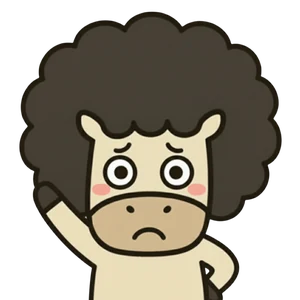
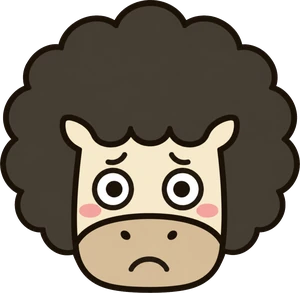
届いた9枚（顔アップ6・ゲート発走3）を反映、記憶の点のはみ出しを修正、難易度を調整
素材
- images/face/ 6枚を仮の切り出しから専用の顔アップに差し替え
  （記憶・たたき・キャッチ・game.html が同じパスを見ているので全部に効く）
- images/gate/ に 構え・飛び出す・フライング の3枚を追加
- gate.html は状態に応じて3枚を入れ替える。先読みしてちらつきを防ぐ
- 背景は自前で除去。白地は thresh=210、黒地は thresh=70。
  クロフワだけ輪郭線がほぼ真っ黒で背景と区別できず、thresh=8（真っ黒のみ）にした

修正
- memory: 段数が増えると点が折り返してキーを押し下げていた。
  1行に収める大きさを総当たりで決め、24段を超えたら「5 / 27」の数字表示に切り替える

難易度
- gate:   称号を 220→250ms 基準にゆるめた（スマホのタップは50〜80ms遅れる）
- whack:  出てる時間 1150→1000ms、間隔 800→720ms から始めて終盤もっと詰める。称号も下げた
- catch:  落下 3.2→2.8秒 始まり、下限 1.0→0.9秒。称号も下げた
- jump:   最高速 520→620、間隔係数 0.75→0.62。
          全速度域で「越えられる > 重なる」「次までの間隔 > 滞空0.85秒」を再検算済み
          （620で間隔0.89秒＝着地即ジャンプでないと落ちる）

diff --git a/game/gate.html b/game/gate.html
@@ -57,14 +57,17 @@
   }
   #stage.is-flying .g-signal { background: var(--gold-d); color: #1a0e16; }
 
-  /* 馬 */
+  /* 馬。構え／飛び出す／フライング の3枚を入れ替える。
+     縦横比が違うので箱を決めて、下端を合わせて収める */
   .g-horse {
-    position: absolute; left: 50%; bottom: 30%; width: 50%; max-width: 186px; z-index: 2;
-    transform: translateX(-50%); transition: transform .26s ease-out;
+    position: absolute; left: 50%; bottom: 30%; z-index: 2;
+    width: 56%; max-width: 200px; height: 30%;
+    object-fit: contain; object-position: bottom center;
+    transform: translateX(-50%); transition: transform .24s ease-out;
     filter: drop-shadow(0 0 14px rgba(0, 0, 0, .8));
   }
-  #stage.is-go .g-horse { transform: translateX(-50%) scale(1.2) translateY(-8px); }
-  #stage.is-flying .g-horse { transform: translateX(-50%) rotate(-16deg) translateY(12px); }
+  #stage.is-go .g-horse { transform: translateX(-50%) scale(1.26); height: 34%; }
+  #stage.is-flying .g-horse { transform: translateX(-50%) translateY(14%); }
 
   /* ゲート */
   .g-frame {
@@ -128,7 +131,7 @@
   <div class="at-eye">REACTION</div>
   <h1 class="at-ttl">ゲート発走</h1>
   <p class="at-sub">開いた瞬間に、タップ</p>
-  <img class="at-hero" src="../images/face/ginma.webp" alt="">
+  <img class="at-hero" src="../images/gate/dash_afuwa.webp" alt="" style="width:170px">
   <div class="at-best">自己ベスト <b id="gBest">—</b></div>
   <button class="abtn" type="button" id="startBtn">スタート</button>
   <ul class="at-how">
@@ -151,7 +154,7 @@
     <div class="astage" id="stage">
       <div class="g-signal" id="signal">タップで構え</div>
       <div class="g-time" id="time">0</div>
-      <img class="g-horse" src="../images/afuwa.png" alt="">
+      <img class="g-horse" id="horse" src="../images/gate/wait_afuwa.webp" alt="">
       <div class="g-frame">
         <div class="g-post l"></div>
         <div class="g-post r"></div>
@@ -180,6 +183,17 @@
   var lastEl = document.getElementById('hLast');
   var bestEl = document.getElementById('hBest');
   var lapsEl = document.getElementById('laps');
+  var horse  = document.getElementById('horse');
+
+  var POSE = {
+    wait:   '../images/gate/wait_afuwa.webp',
+    dash:   '../images/gate/dash_afuwa.webp',
+    flying: '../images/gate/flying_afuwa.webp'
+  };
+  /* 差し替えた瞬間に一拍おかないよう先に読ませておく */
+  (function () {
+    for (var k in POSE) { var i = new Image(); i.src = POSE[k]; }
+  })();
 
   var laps = [], flies = 0, state = 'idle', openAt = 0, timer = null;
 
@@ -195,11 +209,11 @@
     unit: 'ms',
     lower: true,
     grades: [
-      { v: 220, name: 'G1級の出脚' },
-      { v: 260, name: 'オープン級' },
-      { v: 300, name: '3勝クラス' },
-      { v: 350, name: '2勝クラス' },
-      { v: 420, name: '1勝クラス' },
+      { v: 250, name: 'G1級の出脚' },
+      { v: 290, name: 'オープン級' },
+      { v: 330, name: '3勝クラス' },
+      { v: 380, name: '2勝クラス' },
+      { v: 450, name: '1勝クラス' },
       { v: Infinity, name: '新馬' }
     ],
     onRetry: go
@@ -223,9 +237,11 @@
 
   function arm() {
     setState('ready');
+    horse.src = POSE.wait;
     signal.textContent = '構え';
     timer = setTimeout(function () {
       openAt = performance.now();
+      horse.src = POSE.dash;
       setState('go');
       signal.textContent = 'GO！';
       Sfx.start();
@@ -238,6 +254,7 @@
     if (state === 'ready') {                 /* 開く前に押した */
       clearTimeout(timer);
       flies++;
+      horse.src = POSE.flying;
       setState('flying');
       signal.textContent = 'フライング';
       timeEl.textContent = 'フライング ' + flies + '/' + MAX_FLY;
@@ -277,6 +294,7 @@
     laps = []; flies = 0;
     clearTimeout(timer);
     lastEl.textContent = '—';
+    horse.src = POSE.wait;
     setState('idle');
     signal.textContent = 'タップで構え';
     timeEl.textContent = '';

diff --git a/game/memory.html b/game/memory.html
@@ -48,12 +48,24 @@
   .m-state.ok { color: var(--gold); }
   .m-state.ng { color: var(--red); }
 
-  .m-seq { display: flex; gap: 5px; justify-content: center; min-height: 12px; margin: 9px 0 14px; flex-wrap: wrap; }
+  /* 段数が増えても1行に収める。はみ出させない */
+  .m-seq {
+    display: flex; justify-content: center; align-items: center;
+    gap: var(--dg, 5px); min-height: 14px; margin: 9px 0 14px;
+    flex-wrap: nowrap; overflow: hidden;
+  }
   .m-dot {
-    width: 9px; height: 9px; border-radius: 50%; background: var(--grey2);
+    flex: none; width: var(--ds, 9px); height: var(--ds, 9px);
+    border-radius: 50%; background: var(--grey2);
     transition: background .12s, transform .12s, box-shadow .12s;
   }
   .m-dot.on { background: var(--gold); transform: scale(1.3); box-shadow: 0 0 10px var(--gold); }
+  /* 点で表せない段数になったら数字に切り替える */
+  .m-seq.count {
+    font-family: 'Bebas Neue', sans-serif; font-size: 19px; color: var(--gold);
+    text-shadow: 0 0 10px var(--gold); letter-spacing: 1px;
+  }
+  .m-seq.count b { color: var(--white); text-shadow: none; }
 
   .m-pad { display: flex; flex-wrap: wrap; gap: 10px; justify-content: center; }
   .m-key {
@@ -186,12 +198,33 @@
     stateEl.className = 'm-state' + (cls ? ' ' + cls : '');
   }
 
+  var DOT_LIMIT = 24;      /* これを超えたら点をやめて数字にする */
+
   function paintSeq(at) {
-    var h = '';
-    for (var i = 0; i < seq.length; i++) {
-      h += '<span class="m-dot' + (at != null && i <= at ? ' on' : '') + '"></span>';
+    var n = seq.length;
+
+    if (n > DOT_LIMIT) {
+      seqEl.className = 'm-seq count';
+      seqEl.innerHTML = (at == null ? 0 : at + 1) + ' <b>/</b> ' + n;
+      return;
     }
-    seqEl.innerHTML = h;
+
+    /* 入る大きさを大きい方から探す（隙間も含めて必ず収める） */
+    var w = (seqEl.clientWidth || 300) - 6;
+    var size = 4, gap = 2;
+    for (var s = 9; s >= 4; s--) {
+      var g = Math.max(2, s - 4);
+      if (n * s + (n - 1) * g <= w) { size = s; gap = g; break; }
+    }
+    seqEl.className = 'm-seq';
+    seqEl.style.setProperty('--ds', size + 'px');
+    seqEl.style.setProperty('--dg', gap + 'px');
+
+    var html = '';
+    for (var i = 0; i < n; i++) {
+      html += '<span class="m-dot' + (at != null && i <= at ? ' on' : '') + '"></span>';
+    }
+    seqEl.innerHTML = html;
   }
 
   function lit(i, ms) {

diff --git a/game/whack.html b/game/whack.html
@@ -197,8 +197,8 @@
 
   /* 経過とともに、出てる時間が短く・間隔もつまる */
   function prog()  { return 1 - left / LIMIT; }
-  function upMs()  { return Math.round(1150 - 620 * prog()); }
-  function gapMs() { return Math.round(800 - 460 * prog()); }
+  function upMs()  { return Math.round(1000 - 520 * prog()); }
+  function gapMs() { return Math.round(720 - 420 * prog()); }
 
   function hide(h, missed) {
     clearTimeout(h.timer);
@@ -296,11 +296,11 @@
     unit: '点',
     lower: false,
     grades: [
-      { v: 5000, name: 'G1級の反応' },
-      { v: 4000, name: 'オープン級' },
-      { v: 3000, name: '3勝クラス' },
-      { v: 2200, name: '2勝クラス' },
-      { v: 1400, name: '1勝クラス' },
+      { v: 3800, name: 'G1級の反応' },
+      { v: 3000, name: 'オープン級' },
+      { v: 2300, name: '3勝クラス' },
+      { v: 1600, name: '2勝クラス' },
+      { v: 1000, name: '1勝クラス' },
       { v: 0,    name: '新馬' }
     ],
     onRetry: go

diff --git a/game/jump.html b/game/jump.html
@@ -156,8 +156,8 @@
   var GRAV     = 2400;    /* 重力(px/s^2) */
   var JUMP_V   = 1020;    /* 跳ぶ勢い(px/s)。頂点217px・滞空0.85秒 */
   var SPD0     = 340;     /* 初速(px/s) */
-  var SPD_MAX  = 520;
-  var SPD_UP   = 6;       /* 1秒あたりの加速 */
+  var SPD_MAX  = 620;
+  var SPD_UP   = 8;       /* 1秒あたりの加速 */
   var PX_PER_M = 26;      /* 何pxで1m扱いにするか */
 
   var stage  = document.getElementById('stage');
@@ -223,8 +223,8 @@
     stage.appendChild(el);
     obs.push({ el: el, x: stage.clientWidth, w: kind.w, h: kind.h });
     /* 次の間隔。速いほど距離を空ける */
-    /* 着地してから次が来るように、速度に比例して間隔を空ける */
-    nextGap = 165 + Math.random() * 150 + speed * 0.75;
+    /* 着地してから次が来る最低限だけ空ける。速いほどギリギリになる */
+    nextGap = 165 + Math.random() * 140 + speed * 0.62;
   }
 
   function jump() {

diff --git a/game/catch.html b/game/catch.html
@@ -219,7 +219,7 @@
   }
 
   /* 落下にかかる時間（だんだん短く） */
-  function fallMs() { return Math.max(1000, 3200 - score * 70); }
+  function fallMs() { return Math.max(900, 2800 - score * 62); }
 
   function drop() {
     if (!playing) return;
@@ -356,11 +356,11 @@
     unit: '個',
     lower: false,
     grades: [
-      { v: 40, name: 'G1級の目' },
-      { v: 30, name: 'オープン級' },
-      { v: 22, name: '3勝クラス' },
-      { v: 15, name: '2勝クラス' },
-      { v: 8,  name: '1勝クラス' },
+      { v: 35, name: 'G1級の目' },
+      { v: 26, name: 'オープン級' },
+      { v: 19, name: '3勝クラス' },
+      { v: 13, name: '2勝クラス' },
+      { v: 7,  name: '1勝クラス' },
       { v: 0,  name: '新馬' }
     ],
     onRetry: go
